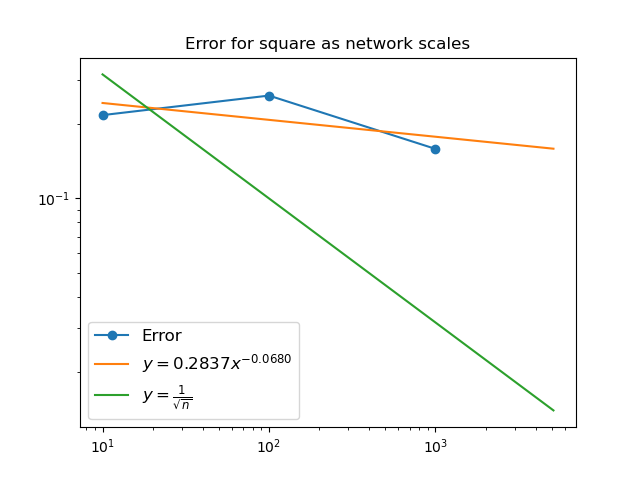
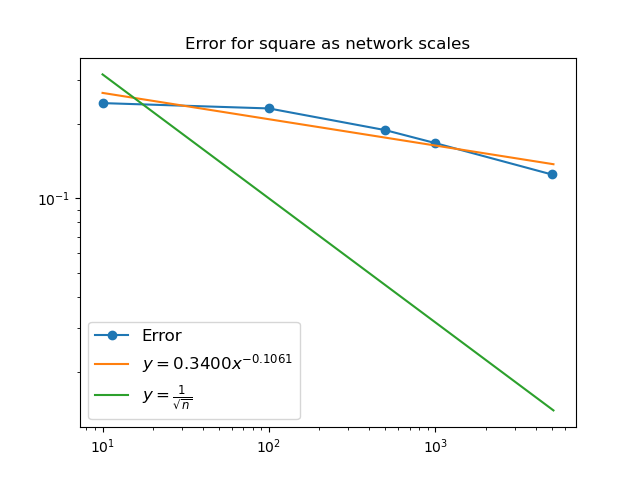
Update scripts, find baseline errors, plot variational error

Changed region(s): [[0.1562, 0.1875, 0.875, 0.375], [0.375, 0.7188, 0.4688, 0.7812], [0.2812, 0.7188, 0.375, 0.7812]]

diff --git a/average_error.py b/average_error.py
@@ -4,7 +4,7 @@ import matplotlib.pyplot as plt
 from sklearn.linear_model import LinearRegression
 
 num_runs = 3
-categories = ["sine", "square", "parabola", "polynomial_spline", "chebyshev_polynomial", "constant", "linear"]
+categories = ["sine", "square", "parabola"]
 
 
 def loglogplot(x, average_errors, category):
